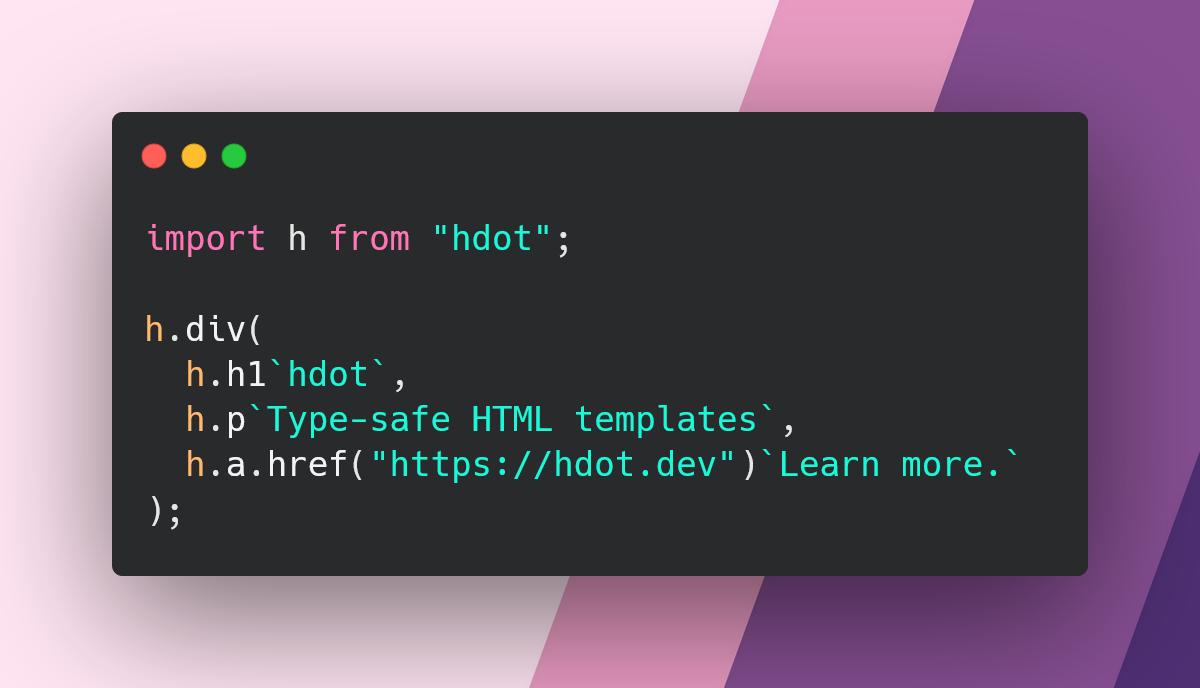
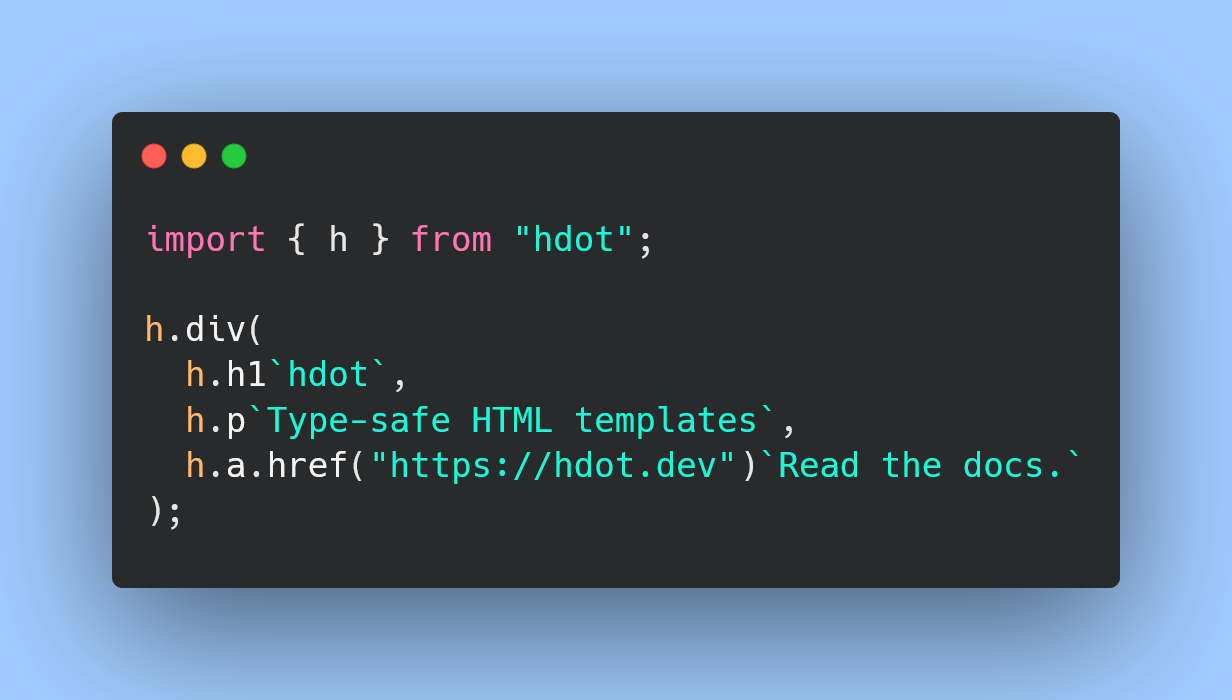
update readmes and social preview

diff --git a/packages/docs/src/_includes/layouts/base.11ty.js b/packages/docs/src/_includes/layouts/base.11ty.js
@@ -21,8 +21,8 @@ function render(data) {
       h.meta["property"]("og:title").content(data.meta.subtitle),
       h.meta["property"]("og:description").content(data.meta.description),
       h.meta["property"]("og:image").content(data.meta.image),
-      h.meta["property"]("og:image:width").content("1200"),
-      h.meta["property"]("og:image:height").content("688"),
+      h.meta["property"]("og:image:width").content("1232"),
+      h.meta["property"]("og:image:height").content("700"),
       h.meta["property"]("og:image:alt").content(data.meta["image:alt"]),
       
       // Twitter

diff --git a/README.md b/README.md
@@ -14,14 +14,14 @@ A sensible way to write HTML in JavaScript.
 ## [Read the docs](https://hdot.dev/)
 
 ```js
-import h from "hdot"; 
+import { h } from "hdot"; 
 
 h.div(
   h.h1`hdot`,
   h.p`Type-safe HTML templates`,
-  h.a.href("https://hdot.dev")`Learn more.`
+  h.a.href("https://hdot.dev")`Read the docs.`
 );
 ```
 ```html
-<div><h1>hdot</h1><p>Type-safe HTML templates</p><a href="https://hdot.dev">Learn more.</a></div>
+<div><h1>hdot</h1><p>Type-safe HTML templates</p><a href="https://hdot.dev">Read the docs.</a></div>
 ```

diff --git a/packages/hdot/README.md b/packages/hdot/README.md
@@ -14,14 +14,14 @@ A sensible way to write HTML in JavaScript.
 ## [Read the docs](https://hdot.dev/)
 
 ```js
-import h from "hdot"; 
+import { h } from "hdot"; 
 
 h.div(
   h.h1`hdot`,
   h.p`Type-safe HTML templates`,
-  h.a.href("https://hdot.dev")`Learn more.`
+  h.a.href("https://hdot.dev")`Read the docs.`
 );
 ```
 ```html
-<div><h1>hdot</h1><p>Type-safe HTML templates</p><a href="https://hdot.dev">Learn more.</a></div>
+<div><h1>hdot</h1><p>Type-safe HTML templates</p><a href="https://hdot.dev">Read the docs.</a></div>
 ```
